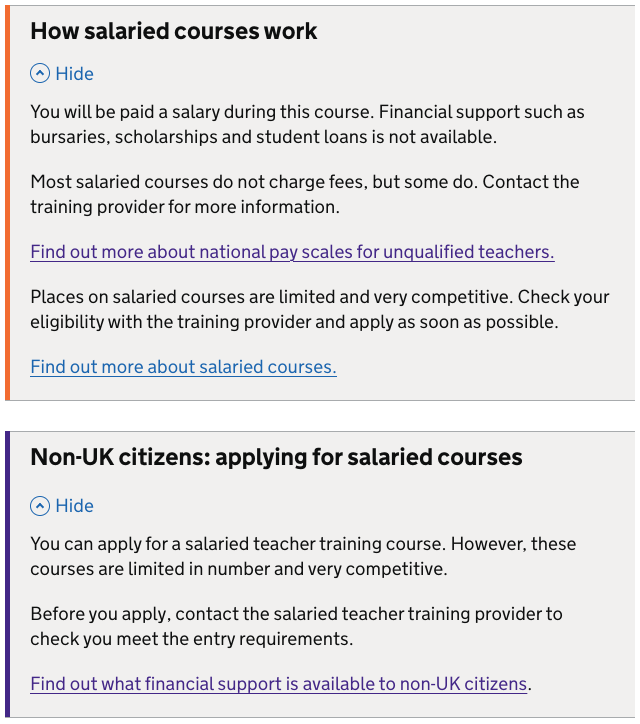
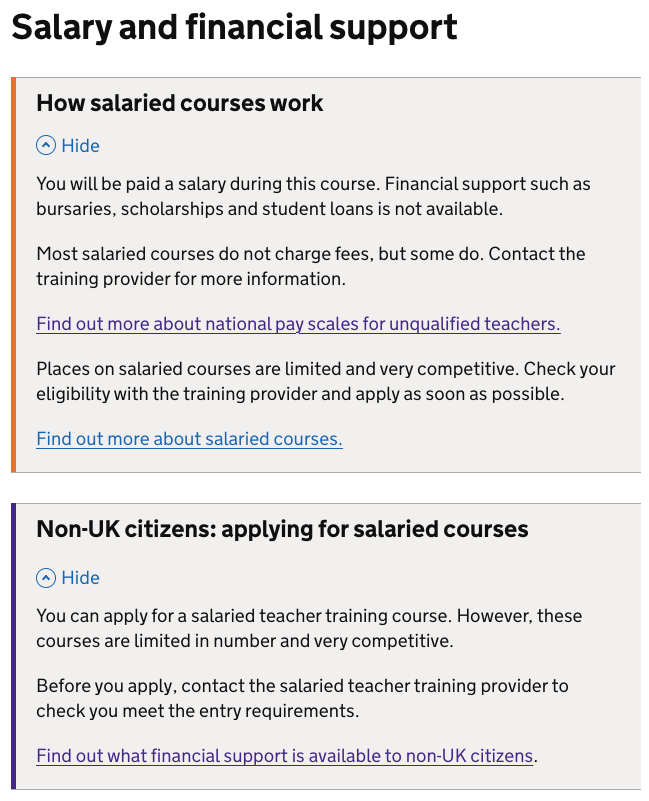
update salaried course changes to include the merge of sections

Changed region(s): [[0.0, 0.0, 0.9688, 1.0]]

diff --git a/app/posts/find-teacher-training/2024-06-18-improving-course-pages.md b/app/posts/find-teacher-training/2024-06-18-improving-course-pages.md
@@ -45,25 +45,53 @@ Course descriptions can be longer than necessary and the usefulness of the infor
 
 > A career changer said there was a lot of text in "About the course", and suggested it could be "shorter", "punchier" and more to the point.
 
-### Further investigation
+## What we changed
 
-When the design team did further investigation, we identified the following areas for improvement.
+We reduced the length of the course pages by moving information to be accessible at the point of need.
 
-Information was presented to everyone that may only be relevant to some people, such as information for international candidates or those with disabilities and other needs.
+### Information for non-UK citizens
+
+Information for international candidates was presented to everyone, when it is only relevant to some people.
 
 ![Screenshot of international candidates section of the course page](international-candidates-before.png)
 
-Information was presented to everyone that may only be relevant the first time they view a page, and not when they are trying to compare courses, such as information about the provider and accredited provider.
+We moved this information into two collapsed sections.
 
-![Screenshot of accredited provider section of the course page](about-accredited-provider.png)
+![Screenshot of information for non-UK citizens in a closed state after the design changes](international-candidates-after-closed.png)
+
+These sections can be opened by candidates when the information is relevant to them.
+
+![Screenshot of information for non-UK citizens after the design changes](international-candidates-after.png)
+
+### Information for those with disabilities
+
+Information for those with disabilities and other needs was presented to everyone that may only be relevant to some people.
+
+We moved this information to a separate page.
+
+![Screenshot of training with disabilities page after the design changes](training-with-disabilities-after.png)
+
+### List of school placements
 
 The list of school placements was sometimes very long.
 
 ![Screenshot of the list of school placements on the course page](school-placements-before.png)
 
-Information that was specific to the course was long paragraphs of text, rather than more structured or concise information.
+We moved this list to a separate page.
 
-![Screenshot of the course summary section of the course page](about-the-course.png)
+![Screenshot of the list of school placements on the course page after the design changes](school-placements-after.png)
+
+### Information about the provider and accredited provider
+
+Information about the provider and accredited provider was presented with the course information.
+
+This makes it difficult when trying to compare courses.
+
+![Screenshot of accredited provider section of the course page](about-accredited-provider.png)
+
+We moved this information, including their contact details, to separate pages.
+
+![Screenshot of about provider page after the design changes](about-provider-after.png)
 
 ## User testing
 
@@ -82,24 +110,6 @@ Navigating on mobile generally tested well:
 The website was good for comparing courses, and the accordions were useful:
 
 > Participants were able to compare courses, and liked that everything was in the same place, "headings are very easy to follow", and once they read one they know how to read them all.
-
-## What we changed
-
-Moved information for international candidates to collapsed sections.
-
-![Screenshot of information for non-UK citizens after the design changes](international-candidates-after.png)
-
-Moved information for people with disabilities to a separate page.
-
-![Screenshot of training with disabilities page after the design changes](training-with-disabilities-after.png)
-
-Moved the list of school placements to a separate page.
-
-![Screenshot of the list of school placements on the course page after the design changes](school-placements-after.png)
-
-Moved the information about the provider, including their contact details, and about the accredited provider to separate pages.
-
-![Screenshot of about provider page after the design changes](about-provider-after.png)
 
 ## What we are continuing to test
 

diff --git a/app/posts/find-teacher-training/2025-01-06-update-financial-support-section.md b/app/posts/find-teacher-training/2025-01-06-update-financial-support-section.md
@@ -14,13 +14,11 @@ The information on financial support from the government was presented as paragr
 
 This can make it difficult for candidates to easily understand key information and compare it with other courses.
 
-Additionally, information specific to non-UK citizens was difficult to find at the bottom of the box.
-
-### Fee-based courses
+Information specific to non-UK citizens was difficult to find at the bottom of the box.
 
 ![screenshot of the previous design of the financial support callout box](find-financial-callout-fee-before-jan-2025.png)
 
-### Salaried courses
+Information for salaried courses also mentioned salary pay scales in addition to financial support.
 
 ![screenshot of the previous design of the financial support callout box](find-financial-callout-salaried-before-jan-2025.png)
 
@@ -48,11 +46,11 @@ We used a new pattern for how we display information for non-UK citizens, so tha
 
 We reduced the content and added headings to make it clearer what financial support was available for each course.
 
-#### Fee-based courses
-
 ![screenshot of the previous design of the financial support callout box](find-financial-callout-fee-after-open-jan-2025.png)
 
-#### Salared courses
+### Merged salary and fee sections
+
+We merged the 'Salary' and 'Fees and financial support' sections on salaried courses, to make the information clearer and more relevant.
 
 ![screenshot of the previous design of the financial support callout box](find-financial-callout-salaried-after-open-jan-2025.png)
 
